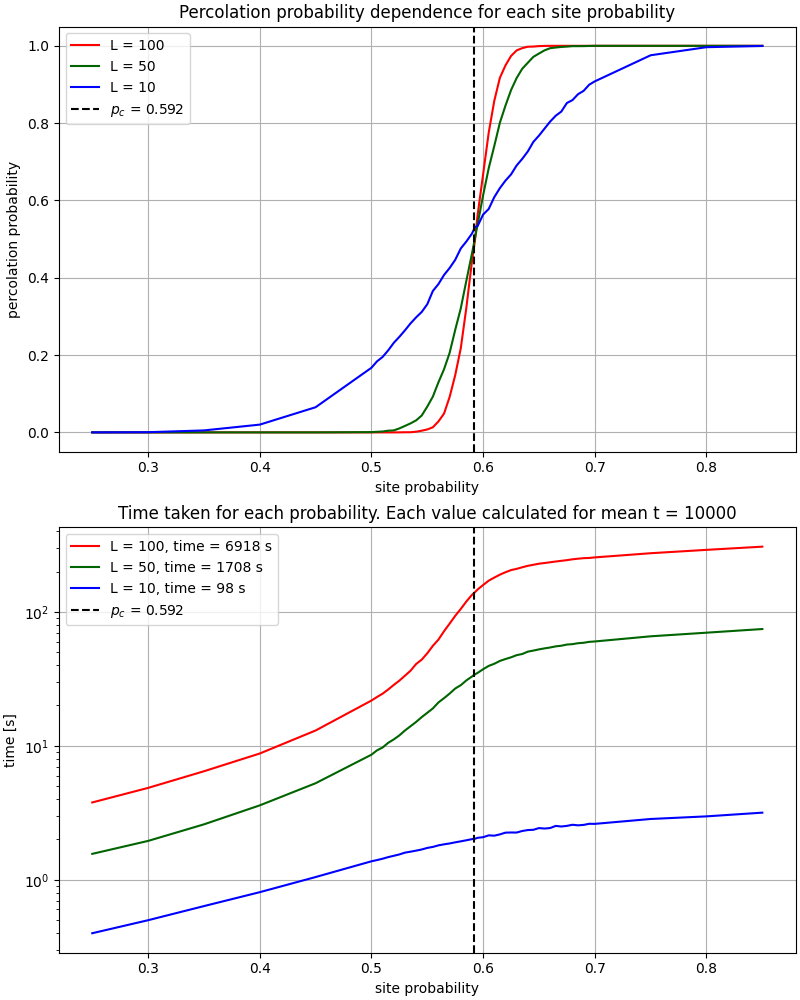
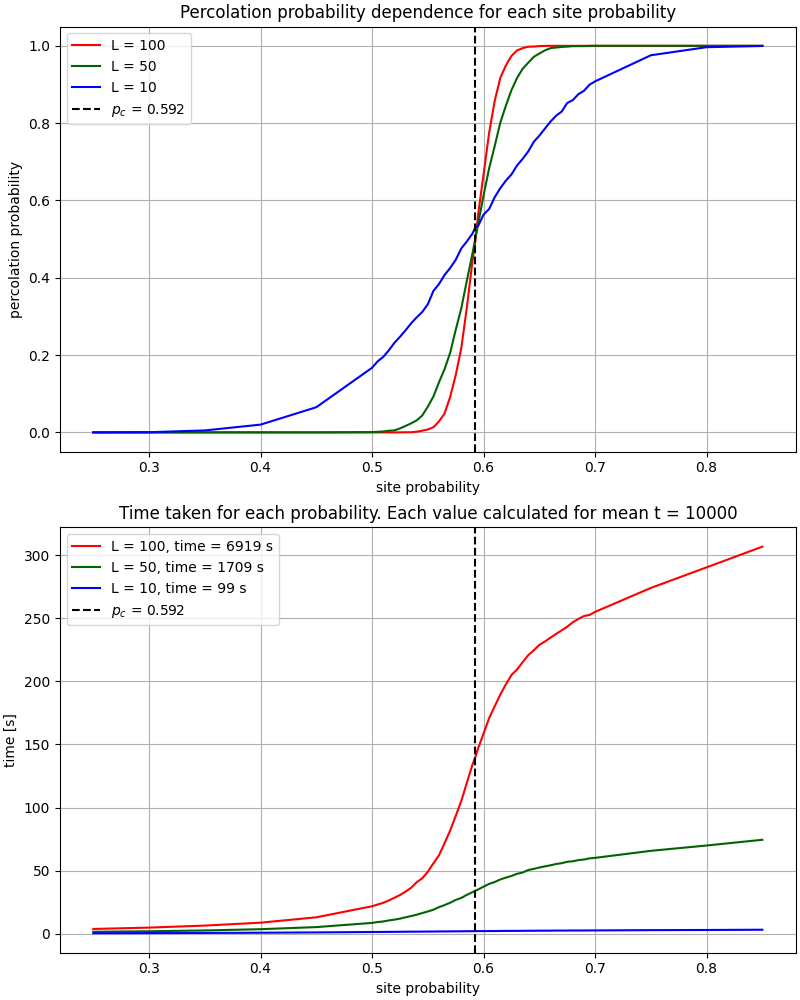
plotting average cluster size ready

diff --git a/SpanningCluster/BiggestCluster.py b/SpanningCluster/BiggestCluster.py
@@ -1,4 +1,4 @@
-from BurningModel import BurningModel
+from SpanningCluster import SpanningCluster
 from time import time
 import pandas as pd
 import numpy as np
@@ -9,19 +9,19 @@ from CommonFunctions import (create_probability_space, make_directories,
 
 if __name__ == '__main__':
     t = 10000
-    L_list = [100, 50, 10]
+    L_list = [10, 50, 100]
     percolation_p = 0.592746
     probability_space = create_probability_space(percolation_p)
     number_of_simulations = len(probability_space)
-    percolation_p_space = np.zeros(number_of_simulations)
-    percolation_time = np.zeros(number_of_simulations)
+    cluster_p_space = np.zeros(number_of_simulations)
+    cluster_time = np.zeros(number_of_simulations)
 
     results_path = 'results'
     make_directories([results_path])
 
     perform_simulation = []
     for L in L_list:
-        file_name = f'Average_L{L}T{t}.csv'
+        file_name = f'Dist_L{L}T{t}.csv'
         is_simulation_done = check_if_file_has_data(file_name, sub_dir=results_path)
         ask_to_redo_simulation = False
         if is_simulation_done:
@@ -34,25 +34,25 @@ if __name__ == '__main__':
     start_time = time()
     for L_index, L in enumerate(L_list):
         if perform_simulation[L_index]:
-            burning_model = BurningModel(L=L)
+            spanning_cluster = SpanningCluster(L=L)
             print(f'{f" L = {L} ":-^50}')
             for index, probability in enumerate(probability_space):
                 start_time_sim = time()
-                burning_model.change_probability(probability)
-                burning_model.t_percolation_trials(trials=t)
-                percolation_probability = burning_model.get_percolation_probability()
-                percolation_p_space[index] = percolation_probability
+                spanning_cluster.change_probability(probability)
+                spanning_cluster.t_spanning_cluster_trials(trials=t)
+                average_cluster = spanning_cluster.get_average_biggest_cluster()
+                cluster_p_space[index] = average_cluster
                 stop_time_sim = time()
                 time_delta = round(stop_time_sim - start_time_sim, 3)
-                percolation_time[index] = time_delta
-                print(f'Percolation probability: {percolation_probability}, '
+                cluster_time[index] = time_delta
+                print(f'Average cluster: {average_cluster}, '
                       f'site probability: {round(probability, 4)}, '
                       f'time taken: {time_delta} seconds')
-            file_title = os.path.join(results_path, f'Average_L{L}T{t}.csv')
+            file_title = os.path.join(results_path, f'Dist_L{L}T{t}.csv')
             data_to_save = pd.DataFrame()
             data_to_save['site_prob'] = probability_space.tolist()
-            data_to_save['perc_prob'] = percolation_p_space.tolist()
-            data_to_save['perc_time'] = percolation_time.tolist()
+            data_to_save['clus_size'] = cluster_p_space.tolist()
+            data_to_save['clus_time'] = cluster_time.tolist()
             data_to_save.to_csv(file_title, sep=',', index=False)
 
     stop_time = time()

diff --git a/SpanningCluster/AverageClusterGraph.py b/SpanningCluster/AverageClusterGraph.py
@@ -1,0 +1,58 @@
+from matplotlib import pyplot as plt
+import pandas as pd
+import numpy as np
+import os
+from CommonFunctions import make_directories, check_if_file_exists
+
+
+if __name__ == '__main__':
+    L_list = [10, 50, 100]
+    t = 10000
+    percolation_p = 0.592
+
+    results_path = 'results'
+    image_path = 'images'
+
+    dataframe_list = []
+
+    for L in L_list:
+        file_name = f'Dist_L{L}T{t}.csv'
+        file_path = os.path.join(results_path, file_name)
+        try:
+            cluster_dataframe = pd.read_csv(file_path, sep=',')
+            dataframe_list.append(cluster_dataframe)
+        except FileNotFoundError:
+            print(f'File {file_name} does not exist!')
+
+    colors = ['red', 'darkgreen', 'blue']
+    figure, axes = plt.subplots(int(len(L_list) / 2) + 1, 2, layout='constrained')
+    axes = axes.ravel()
+    for index, (dataframe, L) in enumerate(zip(dataframe_list, L_list)):
+        total_time = round(np.sum(dataframe['clus_time']))
+        axes[index].plot(dataframe['site_prob'], dataframe['clus_size'],
+                         label=f'L = {L}, time = {total_time} s', color=colors[index])
+        axes[index].axvline(x=percolation_p, color='black',
+                            linestyle='--', label=f'$p_c$ = {percolation_p}')
+        axes[index].set(xlabel='site probability', ylabel='cluster size')
+        axes[index].legend(loc='upper left')
+        axes[index].grid()
+        axes[3].plot(dataframe['site_prob'], dataframe['clus_time'],
+                     label=f'L = {L}, time = {total_time} s', color=colors[index])
+    axes[3].axvline(x=percolation_p, color='black',
+                    linestyle='--', label=f'$p_c$ = {percolation_p}')
+    axes[3].legend(loc='upper left')
+    axes[3].grid()
+    axes[3].set(xlabel='site probability', ylabel='time [s]')
+    figure.suptitle(f'Average cluster size for t = {t} with simulation time')
+    figure.set_size_inches(10, 8)
+
+    make_directories([image_path])
+    image_name = f'AverageClusterGraphT{t}L'
+    for L in L_list:
+        image_name += f'-{L}'
+    image_name += '.png'
+
+    path = os.path.join(image_path, image_name)
+    if not check_if_file_exists(path):
+        figure.savefig(path)
+    plt.show()

diff --git a/BurningModel/PercolationGraph.py b/BurningModel/PercolationGraph.py
@@ -7,7 +7,7 @@ from CommonFunctions import make_directories, check_if_file_exists
 
 if __name__ == '__main__':
     L_list = [100, 50, 10]
-    t = 10000
+    t = 100
     percolation_p = 0.592
 
     results_path = 'results'
@@ -33,11 +33,12 @@ if __name__ == '__main__':
         axes[1].plot(dataframe['site_prob'], dataframe['perc_time'],
                      label=f'L = {L}, time = {total_time} s', color=colors[index])
     for index in range(2):
-        axes[index].axvline(x=percolation_p, color='black', linestyle='--', label=f'$p_c$ = {percolation_p}')
+        axes[index].axvline(x=percolation_p, color='black',
+                            linestyle='--', label=f'$p_c$ = {percolation_p}')
         axes[index].legend(loc='upper left')
         axes[index].grid()
     axes[0].set(xlabel='site probability', ylabel='percolation probability')
-    axes[1].set(xlabel='site probability', ylabel='time [s]', yscale='log')
+    axes[1].set(xlabel='site probability', ylabel='time [s]')
     axes[0].set_title('Percolation probability dependence for each site probability')
     axes[1].set_title(f'Time taken for each probability. Each value calculated for mean t = {t}')
     figure.set_size_inches(8, 10)

diff --git a/BurningModel/BurningModel.py b/BurningModel/BurningModel.py
@@ -1,7 +1,6 @@
 from ProbabilitySite import ProbabilitySite
 import numpy as np
 import os
-import copy
 from CommonFunctions import make_directories, check_if_file_exists
 from matplotlib import pyplot as plt
 from matplotlib.colors import LinearSegmentedColormap
@@ -84,7 +83,7 @@ class BurningModel(ProbabilitySite):
     def plot_percolation(self, ax=None, cmap=()):
         if ax:
             cmap = cmap if cmap else ([(0, 0, 0), (0, 1, 0), (1, 0, 0)], 3)
-            grid = copy.copy(self.grid)
+            grid = self.get_current_grid()
             grid[grid >= 2] = 2
             colors, quality = cmap
             cmap = LinearSegmentedColormap.from_list('', colors, N=quality)

diff --git a/SpanningCluster/SpanningCluster.py b/SpanningCluster/SpanningCluster.py
@@ -29,7 +29,6 @@ class SpanningCluster(ProbabilitySite):
         self.left_value = 0
         self.mc_steps = 0
         self.cluster_size_histogram = {}
-        self.number_of_trials = 1
         self.clusters_concatenated = False
 
     def set_top_left_site(self):
